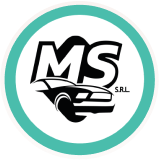
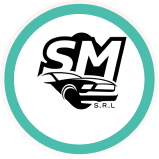
Nuevos iconos implementados. Icono SM cambiado.

diff --git a/src/components/Pages/Home/Home.js b/src/components/Pages/Home/Home.js
@@ -11,6 +11,12 @@ import julieta from '../../../assets/images/julietaCircle.png';
 import julietaWebp from '../../../assets/images/julietaCircleWebp.webp';
 import lucia from '../../../assets/images/luciaCircle.png';
 import luciaWebp from '../../../assets/images/luciaCircleWebp.webp';
+import creatividadYDiseno from '../../../assets/images/icons/HOME_CREATIVIDAD_Y_DISEÑO.png'
+import marketingYComunicacion from '../../../assets/images/icons/HOME_MARKETING.png'
+import gestionDeRedesSociales from '../../../assets/images/icons/HOME_GESTION_RRSS.png'
+import creatividadYDisenoWebp from '../../../assets/images/icons/HOME_CREATIVIDAD_Y_DISEÑO_WEBP.webp'
+import marketingYComunicacionWebp from '../../../assets/images/icons/HOME_MARKETING_WEBP.webp'
+import gestionDeRedesSocialesWebp from '../../../assets/images/icons/HOME_GESTION_RRSS_WEBP.webp'
 const Carousel = lazy(() => import('../../CarouselContainer/Carousel/Carousel'));
 
 const Home = () => {
@@ -33,21 +39,36 @@ const Home = () => {
                     <div className='servicios--card card-1'>
                         <h3 className='servicios--title'>Creatividad y Diseño</h3>
                         <Link to={{pathname: "/servicios", hash: "#creatividad-y-diseno"}} aria-label='Enlace a la sección creatividad y diseño'>
-                            <div className='circle'></div>
+                            <div className='circle max-w-152'>
+                                <picture>
+                                    <source srcSet={creatividadYDisenoWebp} />
+                                    <img src={creatividadYDiseno} className='max-w-152' alt='Creatividad y diseño' />
+                                </picture>
+                            </div>
                         </Link>
                         <p className='p-24'>Invertí en la empresa que sos, para convertirte en la empresa que querés ser.</p>
                     </div>
                     <div className='servicios--card card-2'>
                         <h3 className='servicios--title'>Marketing y Comunicación</h3>
                         <Link to={{pathname: "/servicios", hash: "#marketing-y-comunicacion"}} aria-label='Enlace a la sección marketing y comunicación'>
-                            <div className='circle'></div>
+                            <div className='circle max-w-152'>
+                                <picture>
+                                    <source srcSet={marketingYComunicacionWebp} />
+                                    <img src={marketingYComunicacion} className='max-w-152' alt='Marketing y comunicación' />
+                                </picture>
+                            </div>
                         </Link>
                         <p className='p-24'>En los detalles está la diferencia. Más funcionalidad. <br></br>Más impacto.</p>
                     </div>
                     <div className='servicios--card card-3'>
                         <h3 className='servicios--title'>Gestión de redes sociales</h3>
                         <Link to={{pathname: "/servicios", hash: "#gestion-de-redes-sociales"}} aria-label='Enlace a la sección gestion de redes sociales'>
-                            <div className='circle'></div>
+                            <div className='circle max-w-152'>
+                                <picture>
+                                    <source srcSet={gestionDeRedesSocialesWebp} />
+                                    <img src={gestionDeRedesSociales} className='max-w-152' alt='Gestión de redes sociales' />
+                                </picture>
+                            </div>
                         </Link>
                         <p className='p-24'>El éxito está en interactuar mientras los demás solo postean.</p>
                     </div>

diff --git a/src/components/Pages/Home/Home.css b/src/components/Pages/Home/Home.css
@@ -89,6 +89,14 @@ body .container {
     border-radius: 100%;
     background-color: var(--gray);
     transition: all 500ms ease 0s;
+    display: flex;
+    justify-content: center;
+    align-items: center;
+}
+
+.servicios--container .circle img {
+    width: 7rem;
+    height: 7rem;
 }
 
 .servicios--container .circle:hover {
@@ -165,13 +173,6 @@ body .equipo--container {
 }
 
 @media (min-width: 900px) {
-    /* ESTUDIO */
-    .estudio--container h2 {
-        max-width: 55.5rem;
-    }
-    .estudio--container .estudio--p {
-        margin-bottom: 32px;
-    }
     /* SERVICIOS */
     .servicios--container .servicios--wrapper {
         justify-content: space-between;
